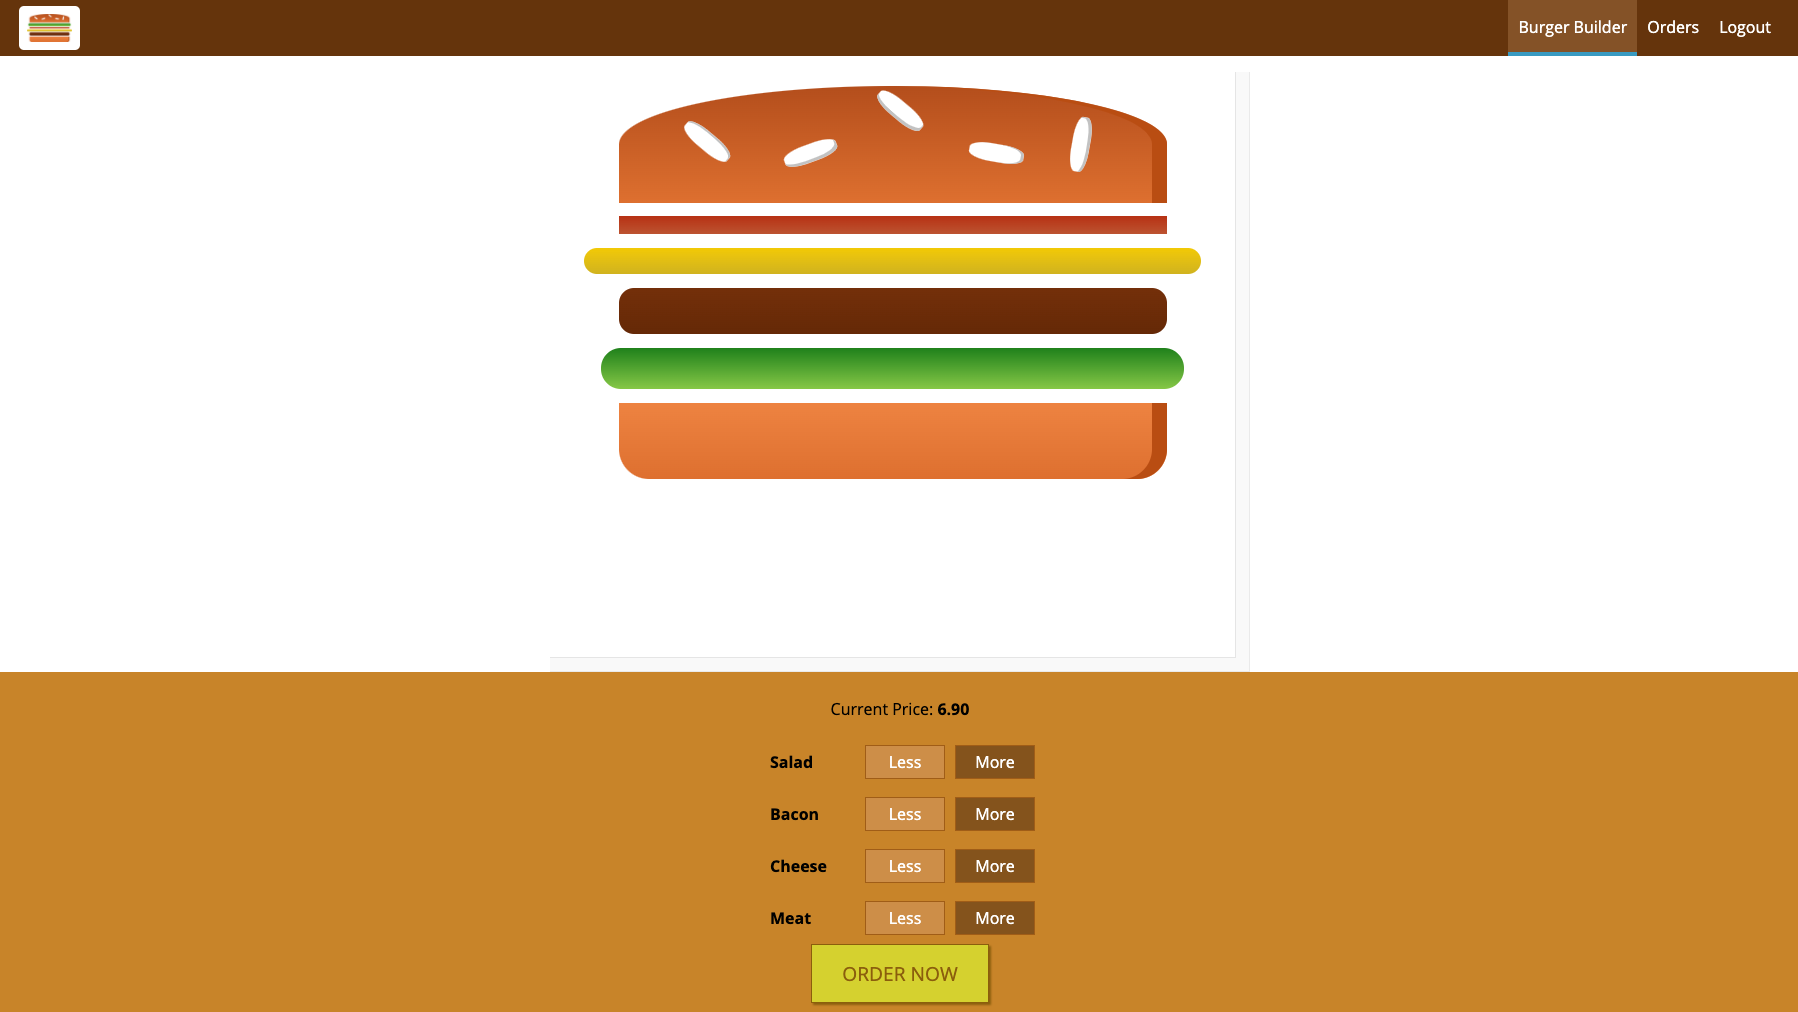
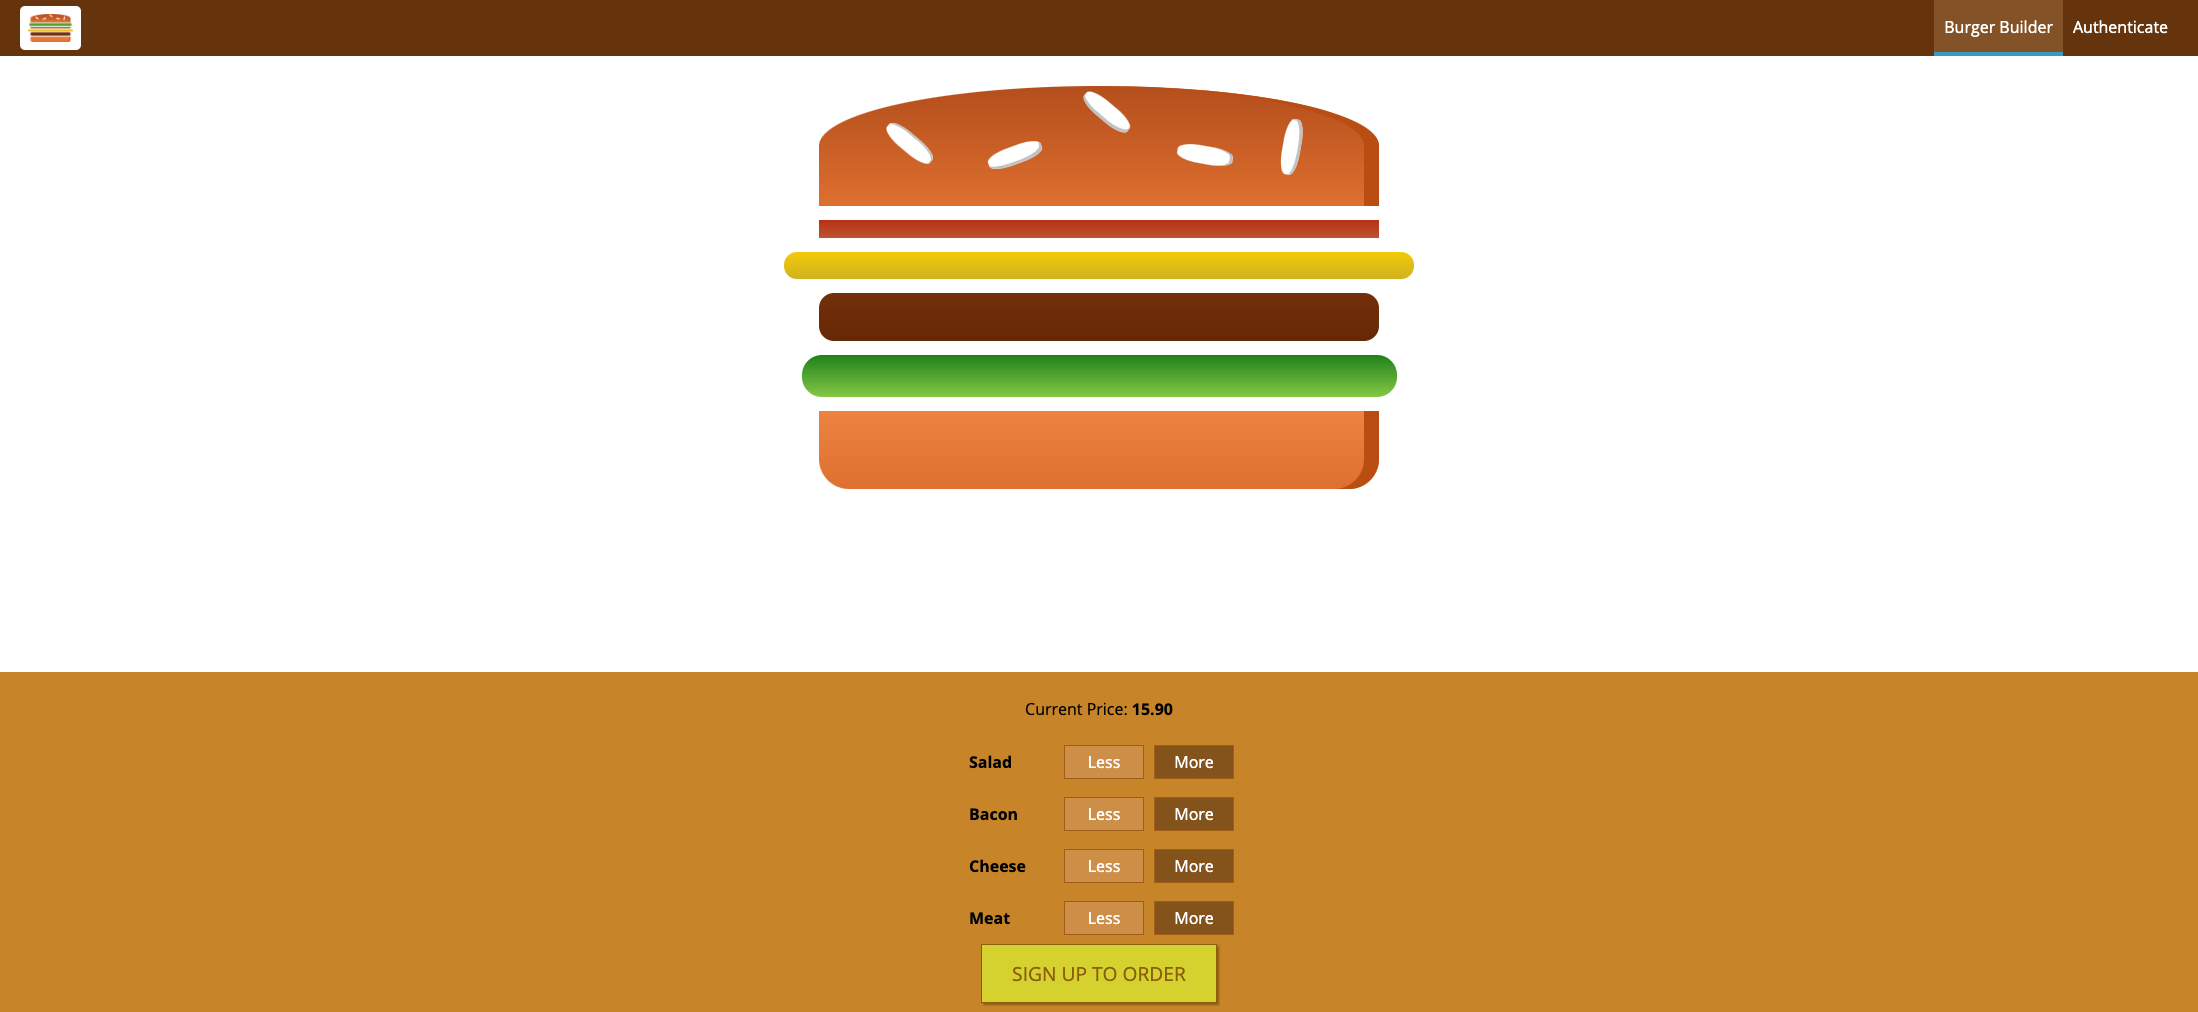
Fix dimension issue for burger

diff --git a/src/components/Navigation/SideDrawer/SideDrawer.js b/src/components/Navigation/SideDrawer/SideDrawer.js
@@ -14,7 +14,7 @@ const sideDrawer = (props) => {
     return (
         <Aux>
             <Backdrop show={props.open} clicked={props.closed} />
-            <div className={attachedClasses.join(' ')}>
+            <div className={attachedClasses.join(' ')} onClick={props.closed}>
                 <div className={classes.Logo}>
                     <Logo />
                 </div>

diff --git a/src/App.js b/src/App.js
@@ -31,6 +31,7 @@ class App extends Component {
           <Route path="/checkout" component={Checkout} />
           <Route path="/orders" component={Orders} />
           <Route path="/logout" component={Logout} />
+          <Route path="/auth" component={Auth} />
           <Route path="/" exact component={BurgerBuilder} />
           <Redirect to='/' />
         </Switch>

diff --git a/src/store/reducers/order.js b/src/store/reducers/order.js
@@ -25,7 +25,7 @@ const purchaseBurgerFail = (state, action) => {
 }
 
 const purchaseBurgerStart = (state, action) => {
-    return updateObject(state, { loading: false });
+    return updateObject(state, { loading: true });
 }
 
 const fetchOrdersStart = (state, action) => {

diff --git a/src/components/Burger/Burger.css b/src/components/Burger/Burger.css
@@ -2,7 +2,7 @@
     width: 100%;
     margin: auto;
     height: 250px;
-    overflow: scroll;
+    overflow: auto;
     text-align: center;
     font-weight: bold;
     font-size: 1.2rem;

diff --git a/src/components/Order/CheckoutSummary/CheckoutSummary.css b/src/components/Order/CheckoutSummary/CheckoutSummary.css
@@ -4,8 +4,3 @@
     margin: auto;
 }
 
-@media (min-width: 600px) {
-    .CheckoutSummary {
-        width: 500px;
-    }
-}
